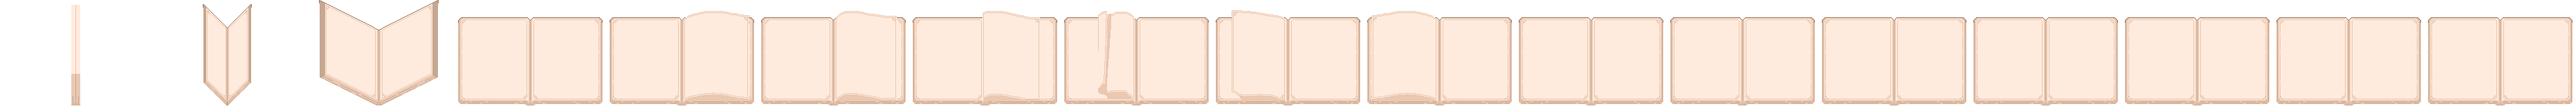
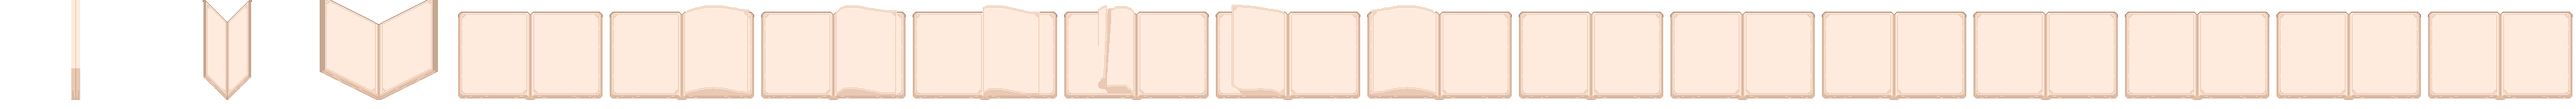
Adjusted default values

diff --git a/Parchment/Framework/Models/Data/Books/PageCurlData.cs b/Parchment/Framework/Models/Data/Books/PageCurlData.cs
@@ -1,4 +1,4 @@
-using Microsoft.Xna.Framework;
+using Microsoft.Xna.Framework;
 using System;
 using System.Collections.Generic;
 using System.Linq;
@@ -17,10 +17,10 @@ namespace Parchment.Framework.Models.Data.Books
         public float Scale { get; set; } = 5f;
 
         /// <summary>The top-left of the back-turn corner, in unscaled sprite pixels relative to the book frame's top-left. The corner's size is <see cref="FrameWidth"/> x <see cref="FrameHeight"/> multiplied by <see cref="Scale"/>, and this rect is both the drawn sprite and its hotspot.</summary>
-        public Point PreviousPageOffset { get; set; } = new Point(2, 119);
+        public Point PreviousPageOffset { get; set; } = new Point(2, 111);
 
         /// <summary>The top-left of the forward-turn corner, in unscaled sprite pixels relative to the book frame's top-left. The corner's size is <see cref="FrameWidth"/> x <see cref="FrameHeight"/> multiplied by <see cref="Scale"/>, and this rect is both the drawn sprite and its hotspot.</summary>
-        public Point NextPageOffset { get; set; } = new Point(185, 119);
+        public Point NextPageOffset { get; set; } = new Point(185, 111);
 
         public override (bool Result, string Error) IsValid()
         {

diff --git a/Parchment/Framework/Models/Data/Books/BookLayoutData.cs b/Parchment/Framework/Models/Data/Books/BookLayoutData.cs
@@ -1,4 +1,4 @@
-using System;
+using System;
 using System.Collections.Generic;
 using System.Linq;
 using System.Text;
@@ -15,10 +15,10 @@ namespace Parchment.Framework.Models.Data.Books
         public int MarginSpine { get; set; } = 6;
 
         /// <summary>The gap between the book frame's top edge and the page content, in unscaled sprite pixels.</summary>
-        public int MarginTop { get; set; } = 35;
+        public int MarginTop { get; set; } = 27;
 
         /// <summary>The gap between the book frame's bottom edge and the page content, in unscaled sprite pixels.</summary>
-        public int MarginBottom { get; set; } = 20;
+        public int MarginBottom { get; set; } = 28;
 
         public override (bool Result, string Error) IsValid()
         {

diff --git a/Parchment/Framework/Managers/BookManager.cs b/Parchment/Framework/Managers/BookManager.cs
@@ -130,10 +130,7 @@ namespace Parchment.Framework.Managers
                 Format = "1.0.0",
                 Id = "Parchment.Test_CampingGuide",
                 TintColor = "165 42 42",
-                Appearance = new BookAppearanceData()
-                {
-                    Offset = new Point(2, -8)
-                },
+                Appearance = new BookAppearanceData(),
                 Underlay = new List<ElementData>()
                 {
                     new ImageElementData() { TexturePath = "Characters/Junimo", TextureSourceRectangle = new Rectangle(48, 0, 16, 16), Scale = 4,

diff --git a/Parchment/Parchment.cs b/Parchment/Parchment.cs
@@ -72,9 +72,6 @@ namespace Parchment
             // Only runs if debug mode is active
             if (isDebugMode is true && e.Button is SButton.O && Context.IsPlayerFree && Game1.activeClickableMenu is null)
             {
-                var test = Helper.GameContent.Load<List<BookData>>(BookManager.BOOKS_DATA_PATH);
-                _ = test;
-
                 // Consume the button press
                 Helper.Input.Suppress(e.Button);
 

diff --git a/Parchment/Framework/Models/Data/Books/BookAppearanceData.cs b/Parchment/Framework/Models/Data/Books/BookAppearanceData.cs
@@ -1,4 +1,4 @@
-using Microsoft.Xna.Framework;
+using Microsoft.Xna.Framework;
 using System;
 using System.Collections.Generic;
 using System.Linq;
